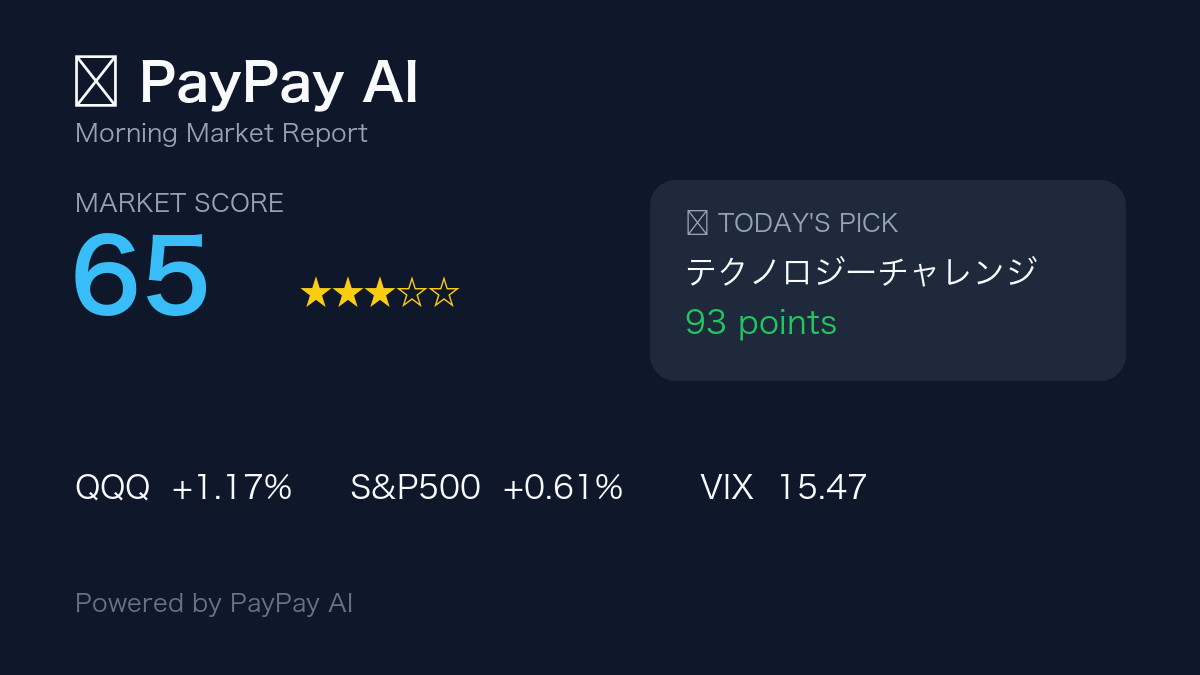
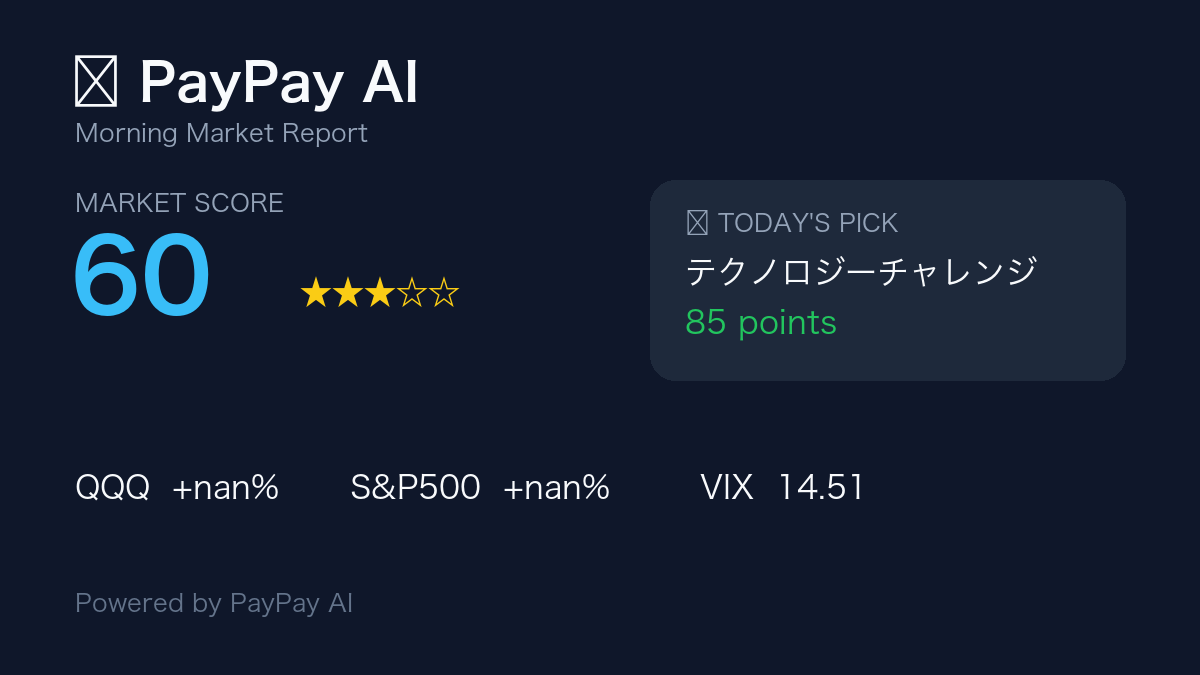
Fix Actions auto-update push conflicts

diff --git a/index.html b/index.html
@@ -22,7 +22,7 @@
                 </div>
                 
                 <div class="small">
-                    更新日時：2026-08-28 11:15
+                    更新日時：2026-08-30 21:39
                 </div>
             </div>
             
@@ -34,16 +34,16 @@
                         <h2>市場スコア</h2>
                     </div>
                     <div class="score" style="color:#38bdf8;">
-                    70
+                    60
                     </div>
                     <div class="market">
-                        ★★★★☆
+                        ★★★☆☆
                     </div>
                     <p class="small">
                         🟢 やや強気
                     </p>
-                    <p class="small" style="color:#9ca3af;">
-                        前日比 +0点
+                    <p class="small" style="color:#ef4444;">
+                        前日比 -10点
                     </p>
                 </div>
 
@@ -69,7 +69,7 @@
 
         <div class="stat-box">
             <div class="stat-title">予想</div>
-            <div class="stat-value">22</div>
+            <div class="stat-value">23</div>
         </div>
 
         <div class="stat-box">
@@ -96,7 +96,7 @@
                 &nbsp;🥇 テクノロジーチャレンジ
             </h2>
             <div class="score-mini">
-                &nbsp;93点
+                &nbsp;85点
             </div>
             <p class="small">
                &nbsp; 📈 強気相場向き
@@ -106,7 +106,7 @@
         <div class="card">
             <h2>📝 AIコメント</h2>
             <p>
-                😊 市場は比較的安定しています。通常通り積立を続けながら、押し目があれば追加投資も検討できます。<br><br>今日の市場判断：<br>・QQQは上昇しています<br>・S&P500が上昇しています<br>・VIXが非常に低く市場心理は良好です<br>
+                😊 市場は比較的安定しています。通常通り積立を続けながら、押し目があれば追加投資も検討できます。<br><br>今日の市場判断：<br>・VIXが非常に低く市場心理は良好です<br>
             </p>
         </div>
 
@@ -114,6 +114,11 @@
             <h2>🕒 最近のおすすめ</h2>
             <table>
                 
+    <tr>
+    <td>08-30</td>
+    <td>テクノロジーチャレンジ</td>
+    </tr>
+    
     <tr>
     <td>08-28</td>
     <td>テクノロジーチャレンジ</td>
@@ -134,11 +139,6 @@
     <td>テクノロジーチャレンジ</td>
     </tr>
     
-    <tr>
-    <td>08-09</td>
-    <td>テクノロジーチャレンジ</td>
-    </tr>
-    
             </table>
         </div>
     </div>
@@ -150,21 +150,21 @@
             <table>
                 <tr>
                     <td>QQQ</td>
-                    <td style="color:#22c55e">
-                        +1.37%
+                    <td style="color:#ef4444">
+                        +nan%
                     </td>
                 </tr>
 
                 <tr>
                     <td>S&P500</td>
-                    <td style="color:#22c55e">
-                        +0.66%
+                    <td style="color:#ef4444">
+                        +nan%
                     </td>
                 </tr>
 
                 <tr>
                     <td>VIX</td>
-                    <td>14.48</td>
+                    <td>14.51</td>
                 </tr>
                 
                 <tr>
@@ -176,7 +176,7 @@
 
                 <tr>
                     <td>ドル円</td>
-                    <td>159.65</td>
+                    <td>160.04</td>
                 </tr>
 
                 <tr>
@@ -187,7 +187,7 @@
                 <tr>
                     <td>ゴールド</td>
                     <td style="color:#22c55e">
-                        +0.30%
+                        +nan%
                     </td>
 
                 </tr>
@@ -197,7 +197,7 @@
         <div class="card">
             <h2>🧠 AIインサイト</h2>
             <ul>
-                <li>➖ 昨日と同じスコア</li><li>📊 7日平均 60.0点</li><li>🏆 過去最高 85点</li><li>📉 過去最低 25点</li>
+                <li>📉 昨日より -10点</li><li>📊 7日平均 61.4点</li><li>🏆 過去最高 85点</li><li>📉 過去最低 25点</li><li>⚠ 2日連続で悪化</li>
             </ul>
         </div>
     </div>
@@ -210,25 +210,25 @@
         <tr>
             <td>🥇</td>
             <td>テクノロジーチャレンジ</td>
-            <td>93点</td>
+            <td>85点</td>
         </tr>
         
         <tr>
             <td>🥈</td>
             <td>テクノロジー</td>
-            <td>86点</td>
+            <td>80点</td>
         </tr>
         
         <tr>
             <td>🥉</td>
-            <td>スタンダード</td>
-            <td>85点</td>
+            <td>チャレンジ</td>
+            <td>80点</td>
         </tr>
         
         <tr>
             <td>4.</td>
-            <td>チャレンジ</td>
-            <td>83点</td>
+            <td>スタンダード</td>
+            <td>80点</td>
         </tr>
         
         <tr>
@@ -310,8 +310,8 @@
     
     
     <script>
-        const scoreLabels = ["07-30", "07-31", "08-01", "08-02", "08-03", "08-04", "08-05", "08-06", "08-07", "08-09", "08-10", "08-26", "08-27", "08-28"];
-        const scoreData = [25, 80, 70, 70, 70, 80, 50, 50, 50, 65, 65, 50, 70, 70];
+        const scoreLabels = ["07-31", "08-01", "08-02", "08-03", "08-04", "08-05", "08-06", "08-07", "08-09", "08-10", "08-26", "08-27", "08-28", "08-30"];
+        const scoreData = [80, 70, 70, 70, 80, 50, 50, 50, 65, 65, 50, 70, 70, 60];
     </script>
 
     <script src="https://cdn.jsdelivr.net/npm/chart.js"></script>
